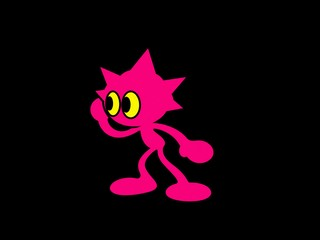
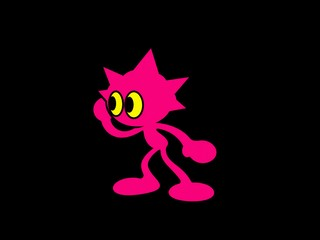
Nudge the idle character right very slightly.
Generated with [Devin](https://devin.ai)

Changed region(s): [[0.2812, 0.2042, 0.6875, 0.8167], [0.5312, 0.7583, 0.6875, 0.8458]]

diff --git a/friend/gizmo_friend/static/oddity-device.css b/friend/gizmo_friend/static/oddity-device.css
@@ -18,7 +18,7 @@ main{padding:0 16px}.simulator{width:min(650px,100%,calc((100svh - 180px)*1145/1
 .device-talk:active{cursor:grabbing}.device-talk:focus-visible{outline:2px solid #ffb5da;outline-offset:4px}
 .device-talk:before{content:'';position:absolute;inset:-10% -55% -10% -90%}
 .device-up:before,.device-down:before,.device-select:before{content:'';position:absolute;inset:0 -12px 0 -3px}
-.device .friend{position:absolute;left:29%;top:26%;width:34%;height:50%;display:grid;place-items:center;pointer-events:none}.device .friend img{height:100%;width:auto;object-fit:contain}
+.device .friend{position:absolute;left:30%;top:26%;width:34%;height:50%;display:grid;place-items:center;pointer-events:none}.device .friend img{height:100%;width:auto;object-fit:contain}
 .device .caption,.device .stage:not(.has-scene) .caption{font-size:3.6cqw;bottom:10%;left:8%;right:8%;line-height:1.25;max-height:34%}
 .device .listening,.device .stage-top,.device .stage-bottom{display:none}
 .device .play-blocked{font-size:3.2cqw;padding:2cqw 2.8cqw}

diff --git a/friend/gizmo_friend/static/oddity.html b/friend/gizmo_friend/static/oddity.html
@@ -7,7 +7,7 @@
   <link rel="icon" href="data:,">
   <link rel="stylesheet" href="/static/oddity-boot.css?v=gate14">
   <link rel="stylesheet" href="/static/oddity.css">
-  <link rel="stylesheet" href="/static/oddity-device.css?v=gate48">
+  <link rel="stylesheet" href="/static/oddity-device.css?v=gate49">
   <link rel="stylesheet" href="/static/oddity-experience.css">
   <link rel="preload" as="image" href="/static/device-reference-ptt-pressed.png">
   <link rel="preload" as="image" href="/static/oddity-character-half.png?v=char3">

diff --git a/body/assets/export_bundle.py b/body/assets/export_bundle.py
@@ -158,7 +158,7 @@ def home_base(source: Path, size: tuple[int, int]) -> Image.Image:
     box = (max(1, round(width * 0.58)), max(1, round(height * 0.72)))
     character.thumbnail(box, Image.Resampling.LANCZOS)
     canvas = Image.new("RGBA", size, (0, 0, 0, 255))
-    x = (width - character.width) // 2 - round(width * 0.04)
+    x = (width - character.width) // 2 - round(width * 0.03)
     y = round((height - character.height) / 2 + height * 0.015)
     canvas.alpha_composite(character, (x, y))
     return canvas
